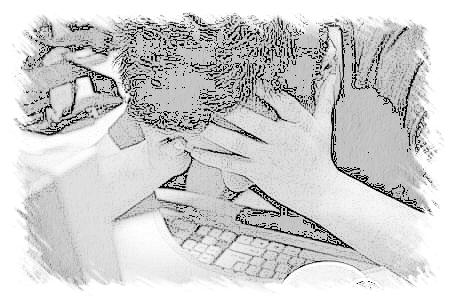
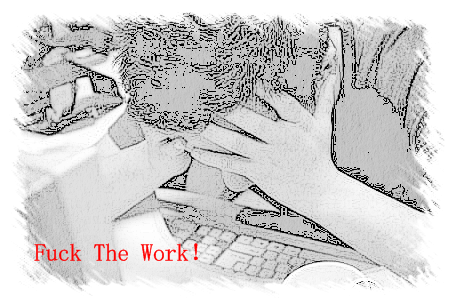
新增文章：
2013-03-01-I-wanna-go-technical-route

Changed region(s): [[0.0622, 0.7993, 0.4667, 0.8586]]

diff --git a/css/default.css b/css/default.css
@@ -118,6 +118,7 @@ a {color:#4A75B5;}
 a:hover {text-decoration:underline;color: #c5000c;}
 a.external {padding-right:13px;background:url('/images/icons.gif') no-repeat right 1px;}
 a.external:hover {background-position:right -14px;}
+h1,h2,h3,h4,h5,h6{font-size:100%;font: bold 1.15em/1.5 verdana;text-shadow: rgba(50, 50, 50, .3) 1px 1px 3px;}
 h1,h1 a {font-size:32px;font-weight:bold;margin-top:20px;margin-bottom:32px;color:#000}
 h1 a:hover {text-decoration:none;}
 h2 {font-size: 22px;font-weight: 500;color: #303030;margin-bottom: 12px;} 
@@ -402,7 +403,7 @@ header h3 {
 
 #main_content {
   text-align: left;
-  min-height: 595px;
+  min-height: 460px;
   width: 100%;
   background: #fff;
   padding: 5px;

diff --git a/_posts/2013-03-01-I-wanna-go-technical-route.html b/_posts/2013-03-01-I-wanna-go-technical-route.html
@@ -1,0 +1,18 @@
+---
+layout: page
+title: I wanna go technical route.
+description: I wanna go technical route
+category: index
+tags: log
+keywords: log,I wanna go technical route.
+---
+
+<div class="image">
+	<img class="innershadow" src="resources/technicalroute.png" alt="I wanna go technical route.">
+</div>
+<div class="text outershadow">
+	<em>
+		30岁以前，我还是想走技术路线，但目前不是那么如意，该怎么办……
+	</em>
+</div>
+<time pubdate="{{ post.date | date: '%Y-%m-%d' }}">{{ post.date | date: '%b %d' }}</time>&nbsp;.

diff --git a/_posts/2013-02-25-fuck-the-work.html b/_posts/2013-02-25-fuck-the-work.html
@@ -14,6 +14,5 @@ keywords: fuck-the-work
 	<em>
 		工资低于我的能力；不是我想要的工作；不是我想做的事情。有点儿失落，不想工作。
 	</em>
-	<em>Fuck The Work！</em>
 </div>
 <time pubdate="{{ post.date | date: '%Y-%m-%d' }}">{{ post.date | date: '%b %d' }}</time>&nbsp;.
